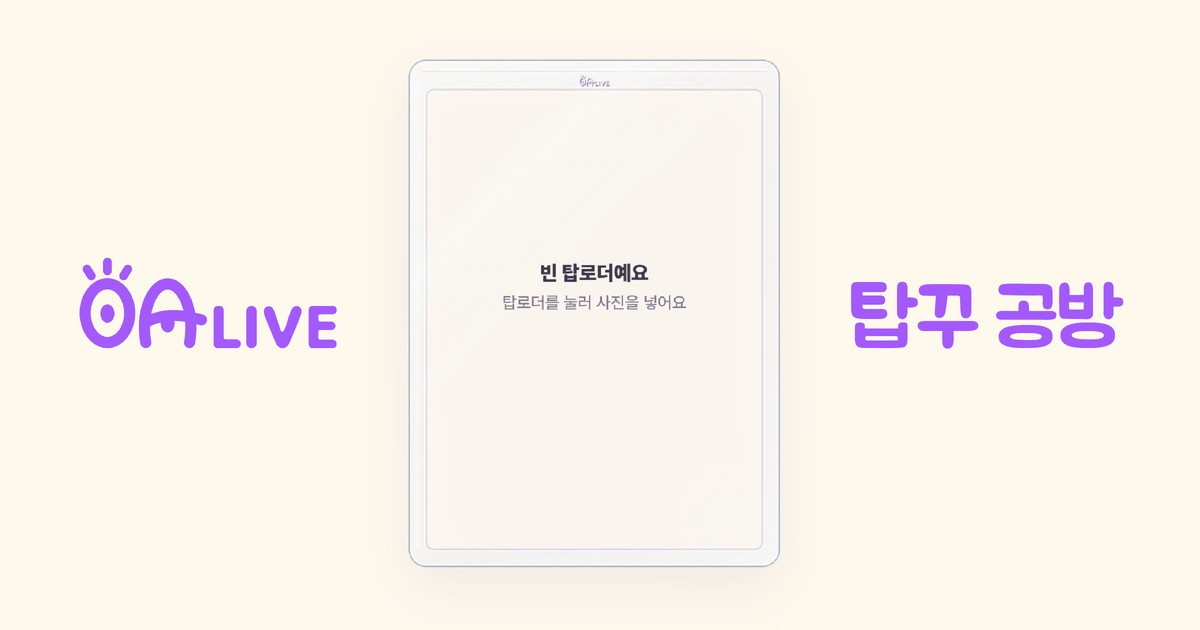
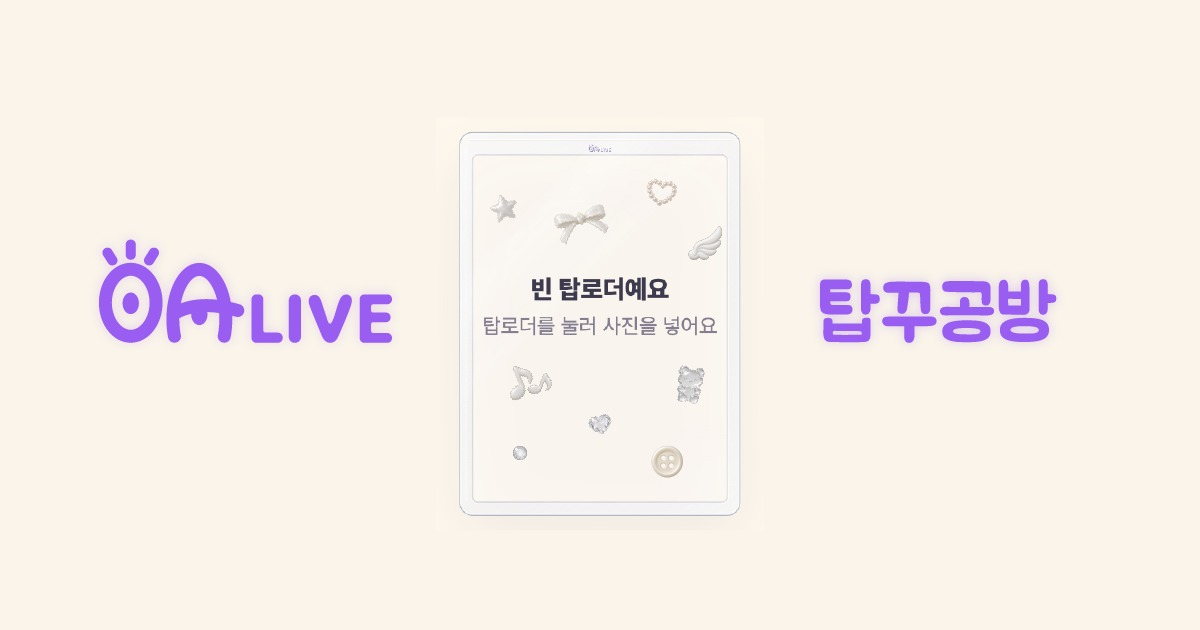
공유 미리보기 이미지 교체
Claude-Session: https://claude.ai/code/session_01NZe1nvweEUmsRSv8AwthJr

diff --git a/index.html b/index.html
@@ -10,12 +10,12 @@
 <meta property="og:type" content="website">
 <meta property="og:url" content="https://oalive-topkku.pages.dev/">
 <meta property="og:site_name" content="오아라이브 탑꾸 공방">
-<meta property="og:image" content="https://oalive-topkku.pages.dev/og.jpg">
+<meta property="og:image" content="https://oalive-topkku.pages.dev/og.jpg?v=2">
 <meta property="og:image:width" content="1200">
 <meta property="og:image:height" content="630">
 <meta property="og:image:alt" content="오아라이브 탑꾸 공방">
 <meta name="twitter:card" content="summary_large_image">
-<meta name="twitter:image" content="https://oalive-topkku.pages.dev/og.jpg">
+<meta name="twitter:image" content="https://oalive-topkku.pages.dev/og.jpg?v=2">
 <meta name="theme-color" content="#fff8ec">
 <link rel="preconnect" href="https://cdn.jsdelivr.net" crossorigin>
 <link rel="stylesheet" as="style" crossorigin href="https://cdn.jsdelivr.net/gh/orioncactus/pretendard@v1.3.9/dist/web/variable/pretendardvariable-dynamic-subset.min.css">
